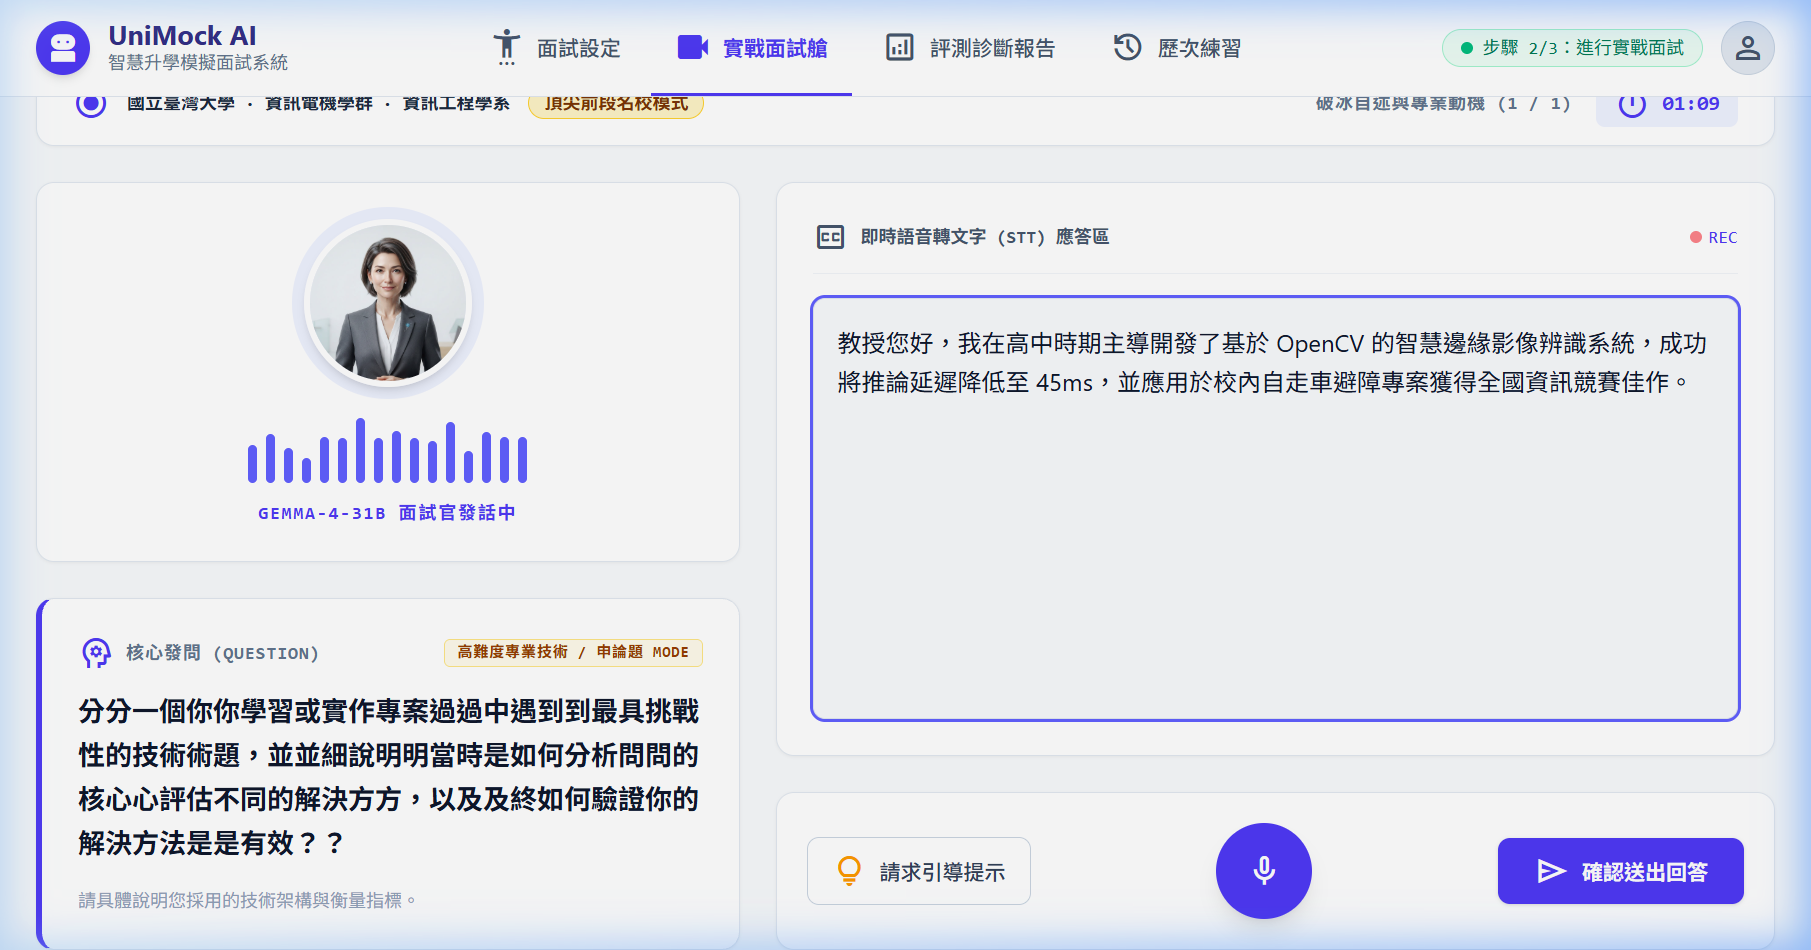
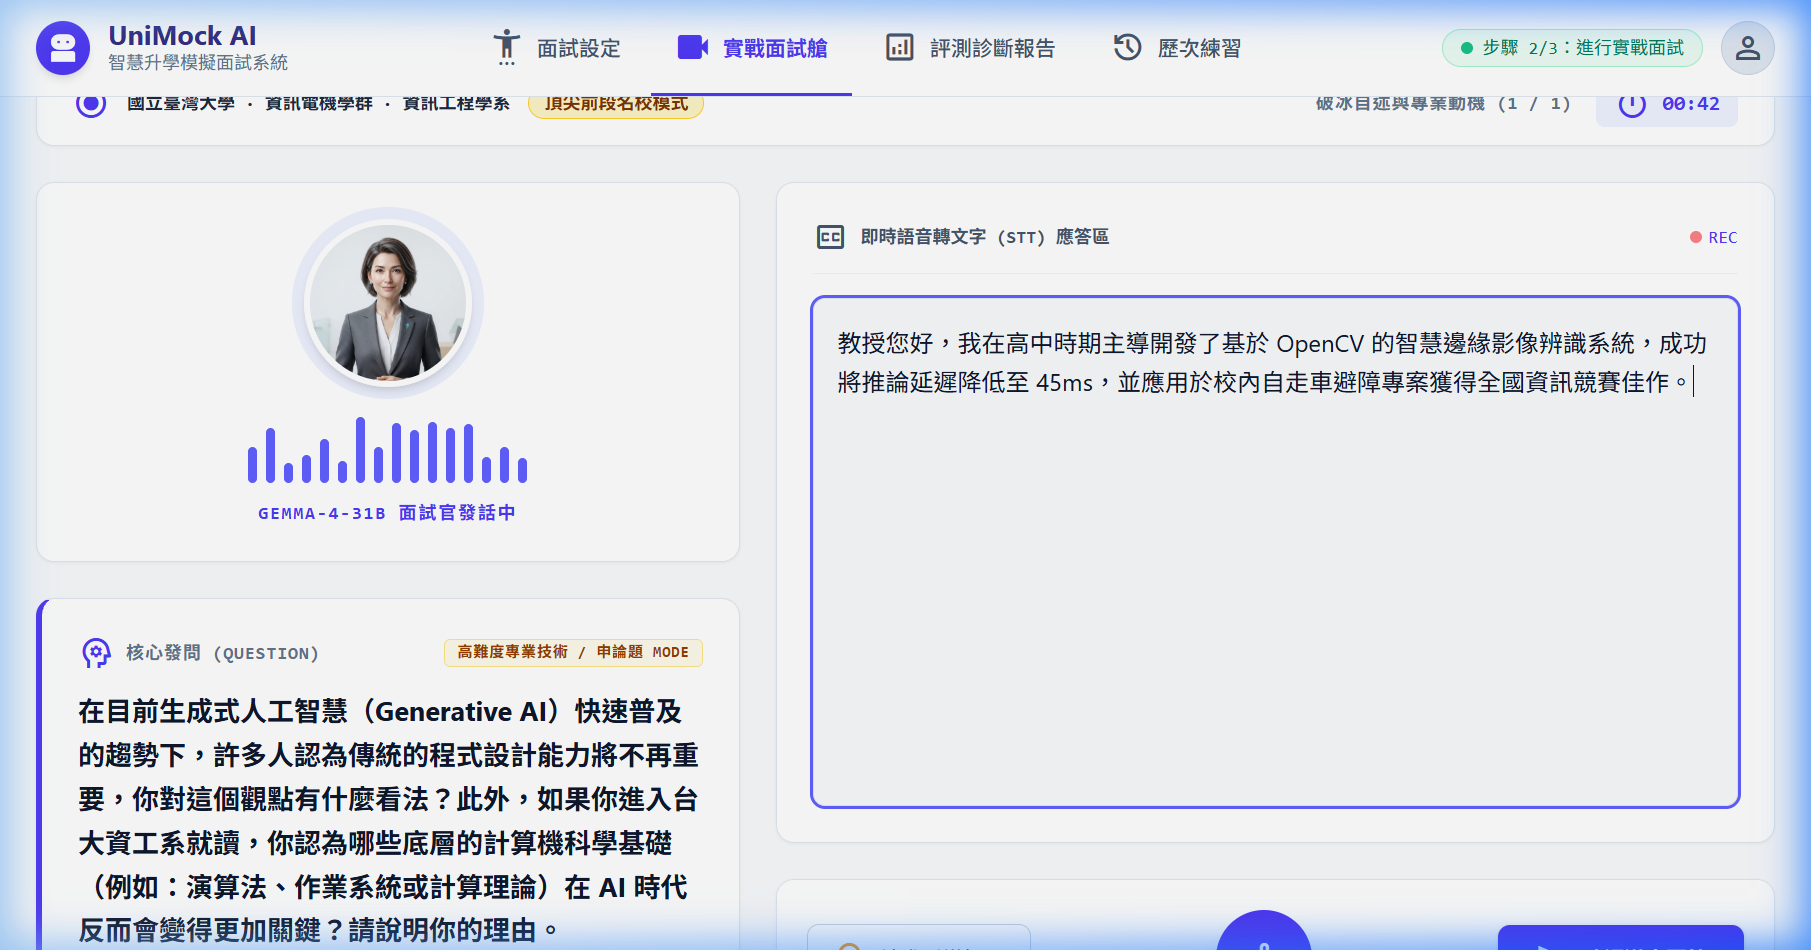
fix(day21): fix typewriter character duplication and update clean screenshots in day21.md
- Fix typewriter effect in InterviewPage.jsx using deterministic slice indexing with text dependency
- Recapture clean browser screenshots for setup, first question, answer entry, and followup question
- Update days/day21.md with clean images and exact verified question text

diff --git a/unimock-ai/frontend/src/pages/InterviewPage.jsx b/unimock-ai/frontend/src/pages/InterviewPage.jsx
@@ -25,19 +25,23 @@ export default function InterviewPage({ sessionData, setSessionData, onFinishInt
 
   // Streaming typewriter effect for question
   useEffect(() => {
-    if (!currentQ || !currentQ.text) return;
+    if (!currentQ || !currentQ.text) {
+      setDisplayedQuestion('');
+      return;
+    }
+    const fullText = currentQ.text;
     setDisplayedQuestion('');
     let i = 0;
     const interval = setInterval(() => {
-      if (i < currentQ.text.length) {
-        i++;
-        setDisplayedQuestion(currentQ.text.slice(0, i));
+      i++;
+      if (i <= fullText.length) {
+        setDisplayedQuestion(fullText.slice(0, i));
       } else {
         clearInterval(interval);
       }
     }, 20);
     return () => clearInterval(interval);
-  }, [currentIdx, currentQ]);
+  }, [currentIdx, currentQ?.text]);
 
   const toggleRecording = () => {
     if (!isRecording) {
